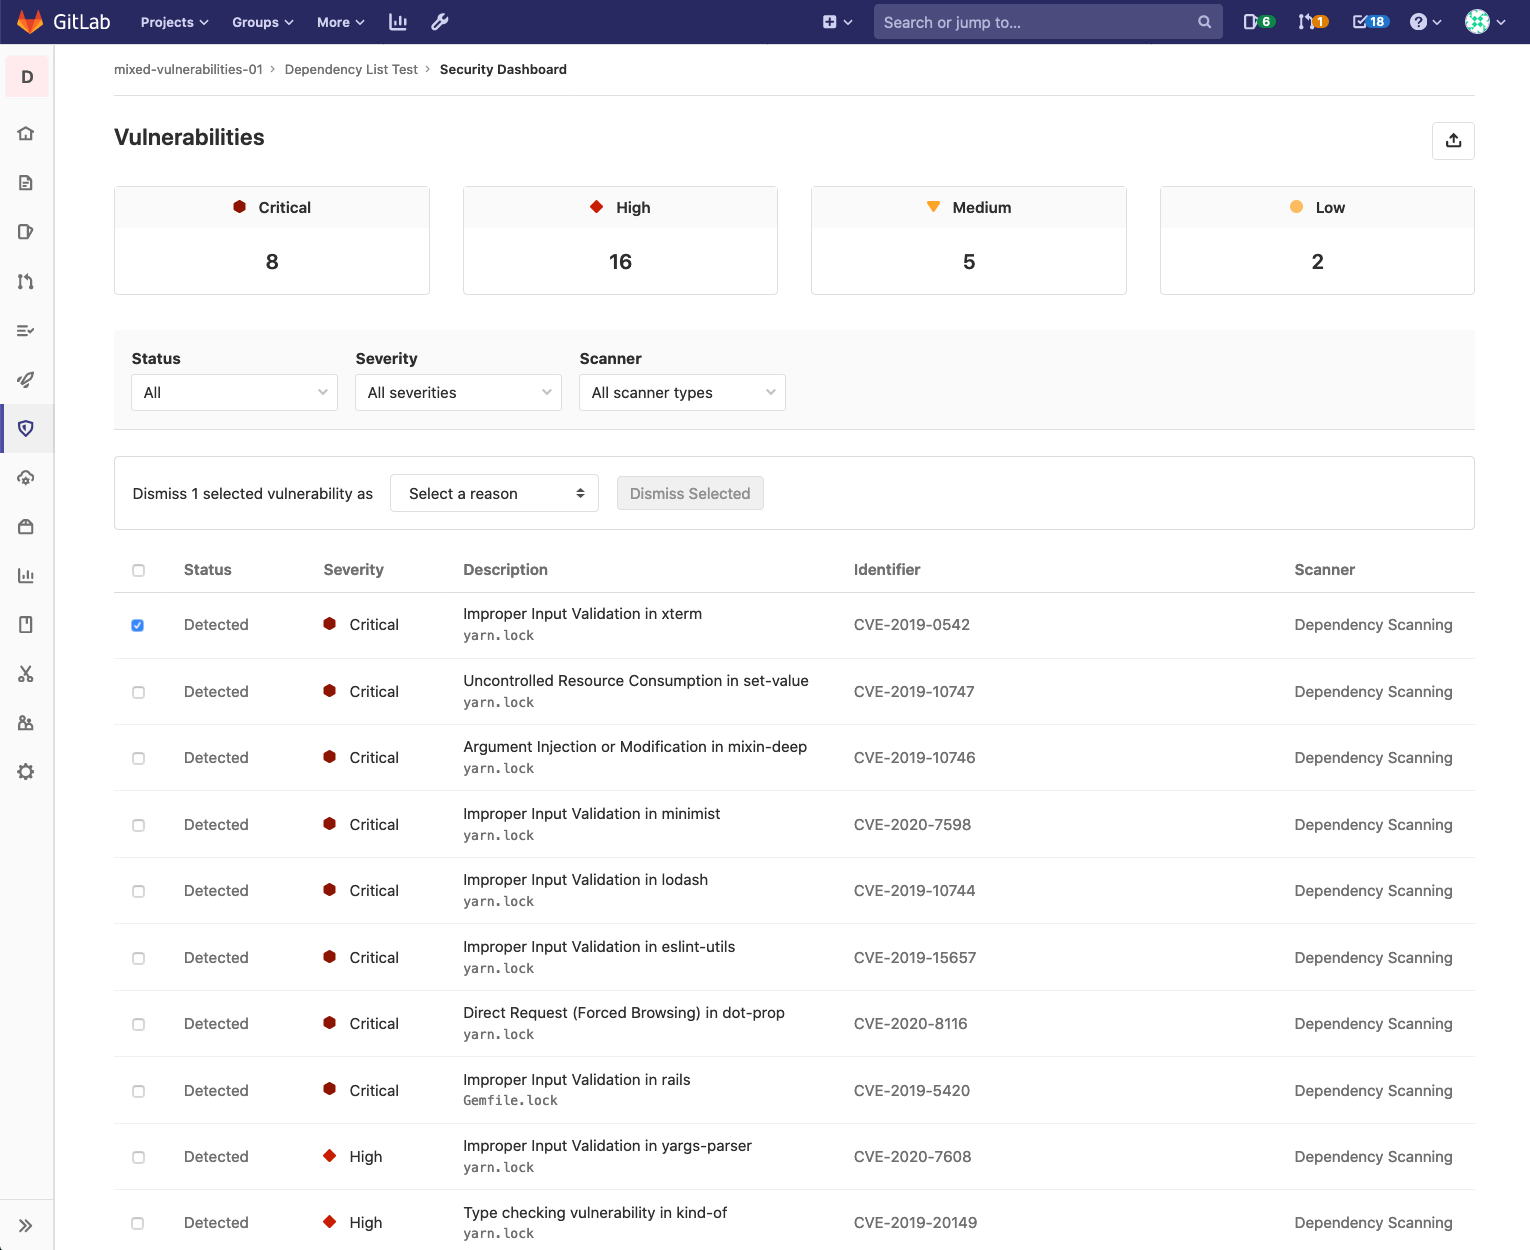
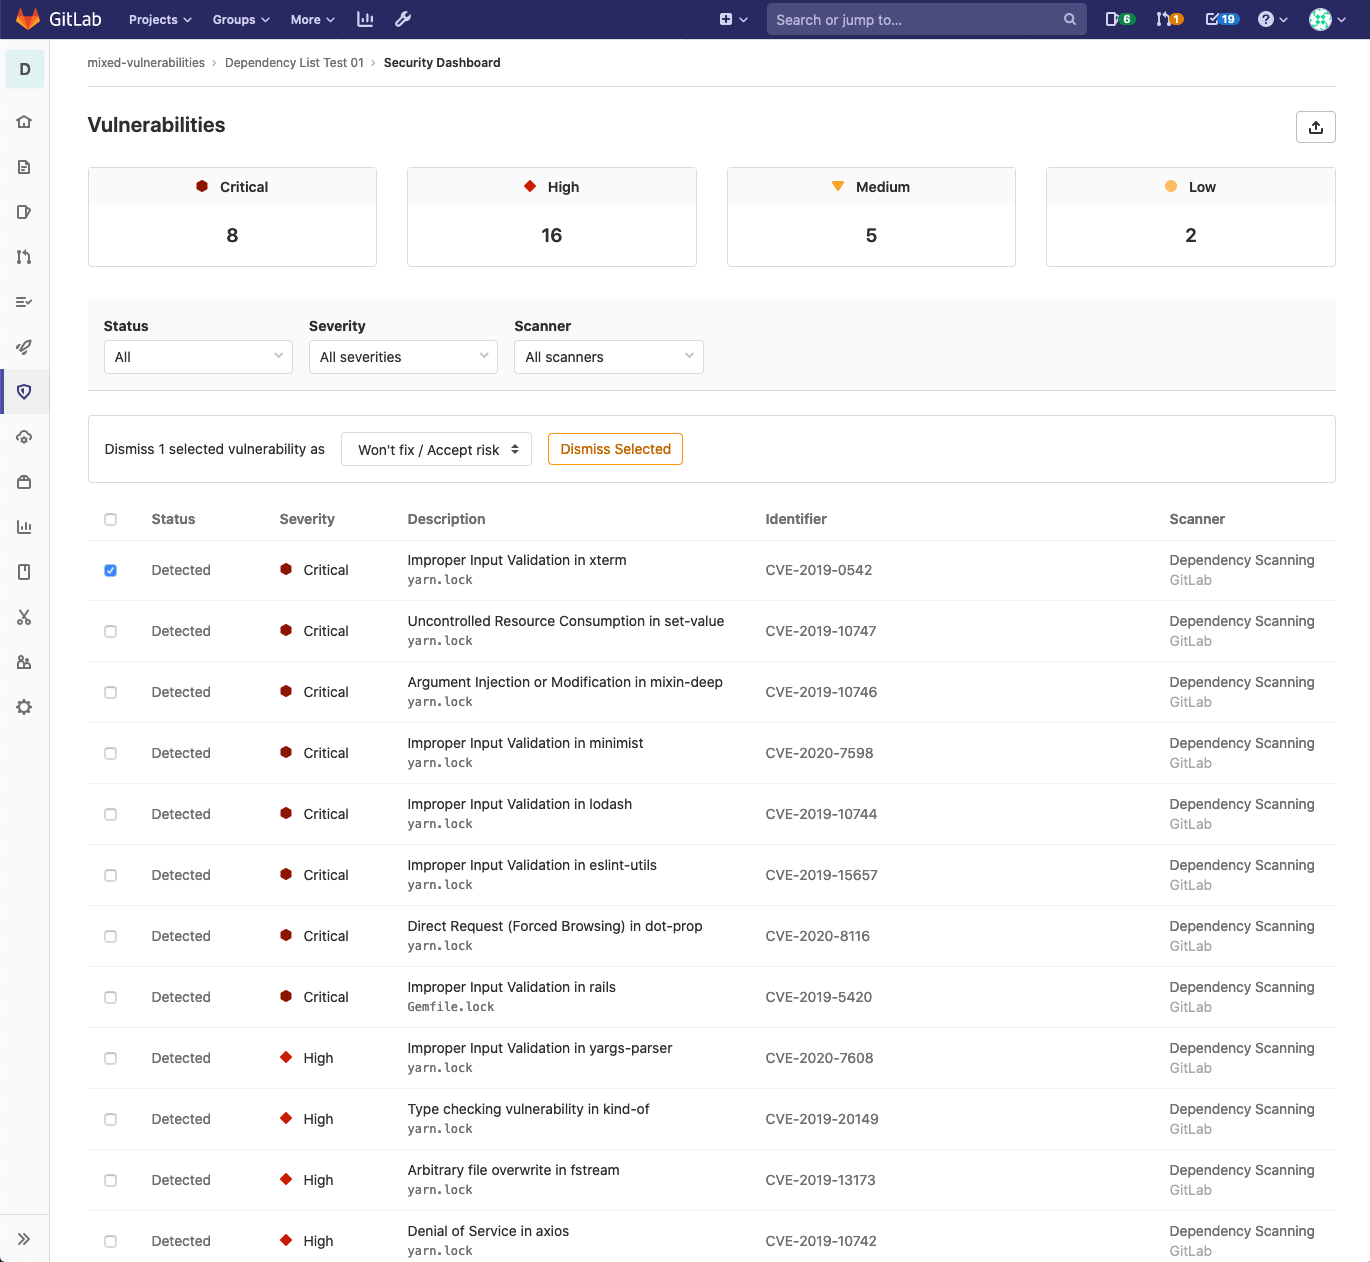
Add the scan vendor into the scanner column
- on the project dashboard, show the scan vendor below the scanner type
  in the scanner column
- if the vendor does not exist, show the scanner name
- add tests

diff --git a/ee/spec/frontend/security_dashboard/components/mock_data.js b/ee/spec/frontend/security_dashboard/components/mock_data.js
@@ -22,6 +22,9 @@ export const generateVulnerabilities = () => [
     project: {
       nameWithNamespace: 'Administrator / Security reports',
     },
+    scanner: {
+      vendor: 'GitLab',
+    },
   },
   {
     id: 'id_1',
@@ -42,6 +45,9 @@ export const generateVulnerabilities = () => [
     project: {
       nameWithNamespace: 'Administrator / Vulnerability reports',
     },
+    scanner: {
+      vendor: 'GitLab',
+    },
   },
   {
     id: 'id_2',
@@ -55,6 +61,9 @@ export const generateVulnerabilities = () => [
     project: {
       nameWithNamespace: 'Mixed Vulnerabilities / Dependency List Test 01',
     },
+    scanner: {
+      vendor: 'My Custom Scanner',
+    },
   },
   {
     id: 'id_3',
@@ -67,6 +76,7 @@ export const generateVulnerabilities = () => [
     project: {
       nameWithNamespace: 'Mixed Vulnerabilities / Rails App',
     },
+    scanner: {},
   },
   {
     id: 'id_4',
@@ -77,6 +87,7 @@ export const generateVulnerabilities = () => [
     project: {
       nameWithNamespace: 'Administrator / Security reports',
     },
+    scanner: {},
   },
 ];
 

diff --git a/ee/spec/frontend/security_dashboard/components/vulnerability_list_spec.js b/ee/spec/frontend/security_dashboard/components/vulnerability_list_spec.js
@@ -214,6 +214,16 @@ describe('Vulnerability list component', () => {
       expect(cells.at(2).text()).toBe('Custom scanner without translation');
       expect(cells.at(3).text()).toBe('');
     });
+
+    it('should display the vulnerability vendor if the vulnerability vendor does exist', () => {
+      const cells = findDataCells('vulnerability-vendor');
+      expect(cells.at(0).text()).toBe('GitLab');
+    });
+
+    it('should display an empty string if the vulnerability vendor does not exist', () => {
+      const cells = findDataCells('vulnerability-vendor');
+      expect(cells.at(3).text()).toBe('');
+    });
   });
 
   describe('when has an issue associated', () => {

diff --git a/ee/app/assets/javascripts/security_dashboard/components/vulnerability_list.vue b/ee/app/assets/javascripts/security_dashboard/components/vulnerability_list.vue
@@ -287,9 +287,12 @@ export default {
       </template>
 
       <template #cell(reportType)="{ item }">
-        <span data-testid="vulnerability-report-type" class="text-capitalize">{{
-          useConvertReportType(item.reportType)
-        }}</span>
+        <div data-testid="vulnerability-report-type" class="text-capitalize">
+          {{ useConvertReportType(item.reportType) }}
+        </div>
+        <div data-testid="vulnerability-vendor" class="gl-text-gray-500">
+          {{ item.scanner.vendor }}
+        </div>
       </template>
 
       <template #table-busy>
